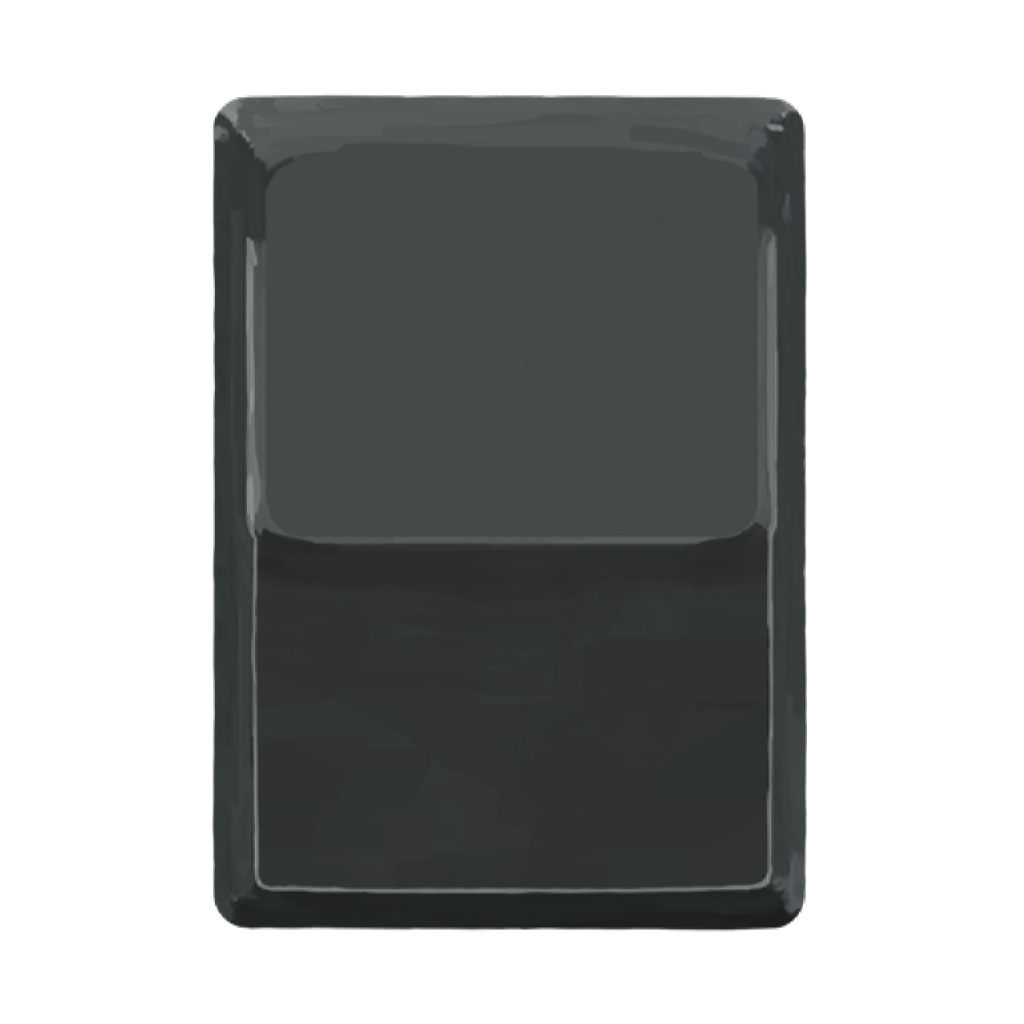
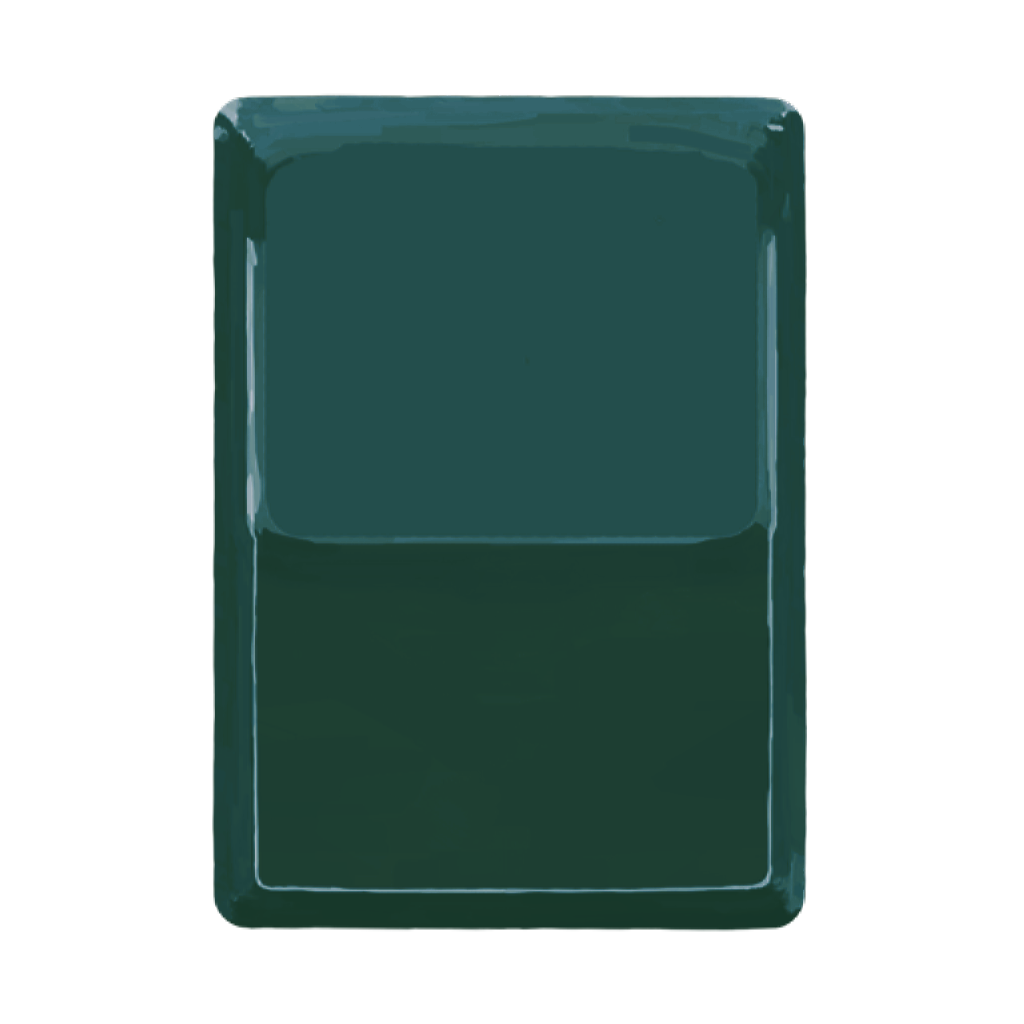
Added image and changed card color
Added images for the cards "Steamroll", "Defend", and "Entrench". Additionally, altered the cardback pngs so that they are dark green.

Changed region(s): [[0.1875, 0.0938, 0.8125, 0.9062]]

diff --git a/src/main/java/myfirstmod/Tank/Tank.java b/src/main/java/myfirstmod/Tank/Tank.java
@@ -69,7 +69,7 @@ public class Tank extends CustomPlayer {
         private static final String SMALL_ORB = characterPath("cardback/small_orb.png");
 
         //This is used to color *some* images, but NOT the actual cards. For that, edit the images in the cardback folder!
-        private static final Color cardColor = new Color(128f/255f, 128f/255f, 128f/255f, 1f);
+        private static final Color cardColor = new Color(006611);
 
         //Methods that will be used in the main mod file
         public static void registerColor() {
